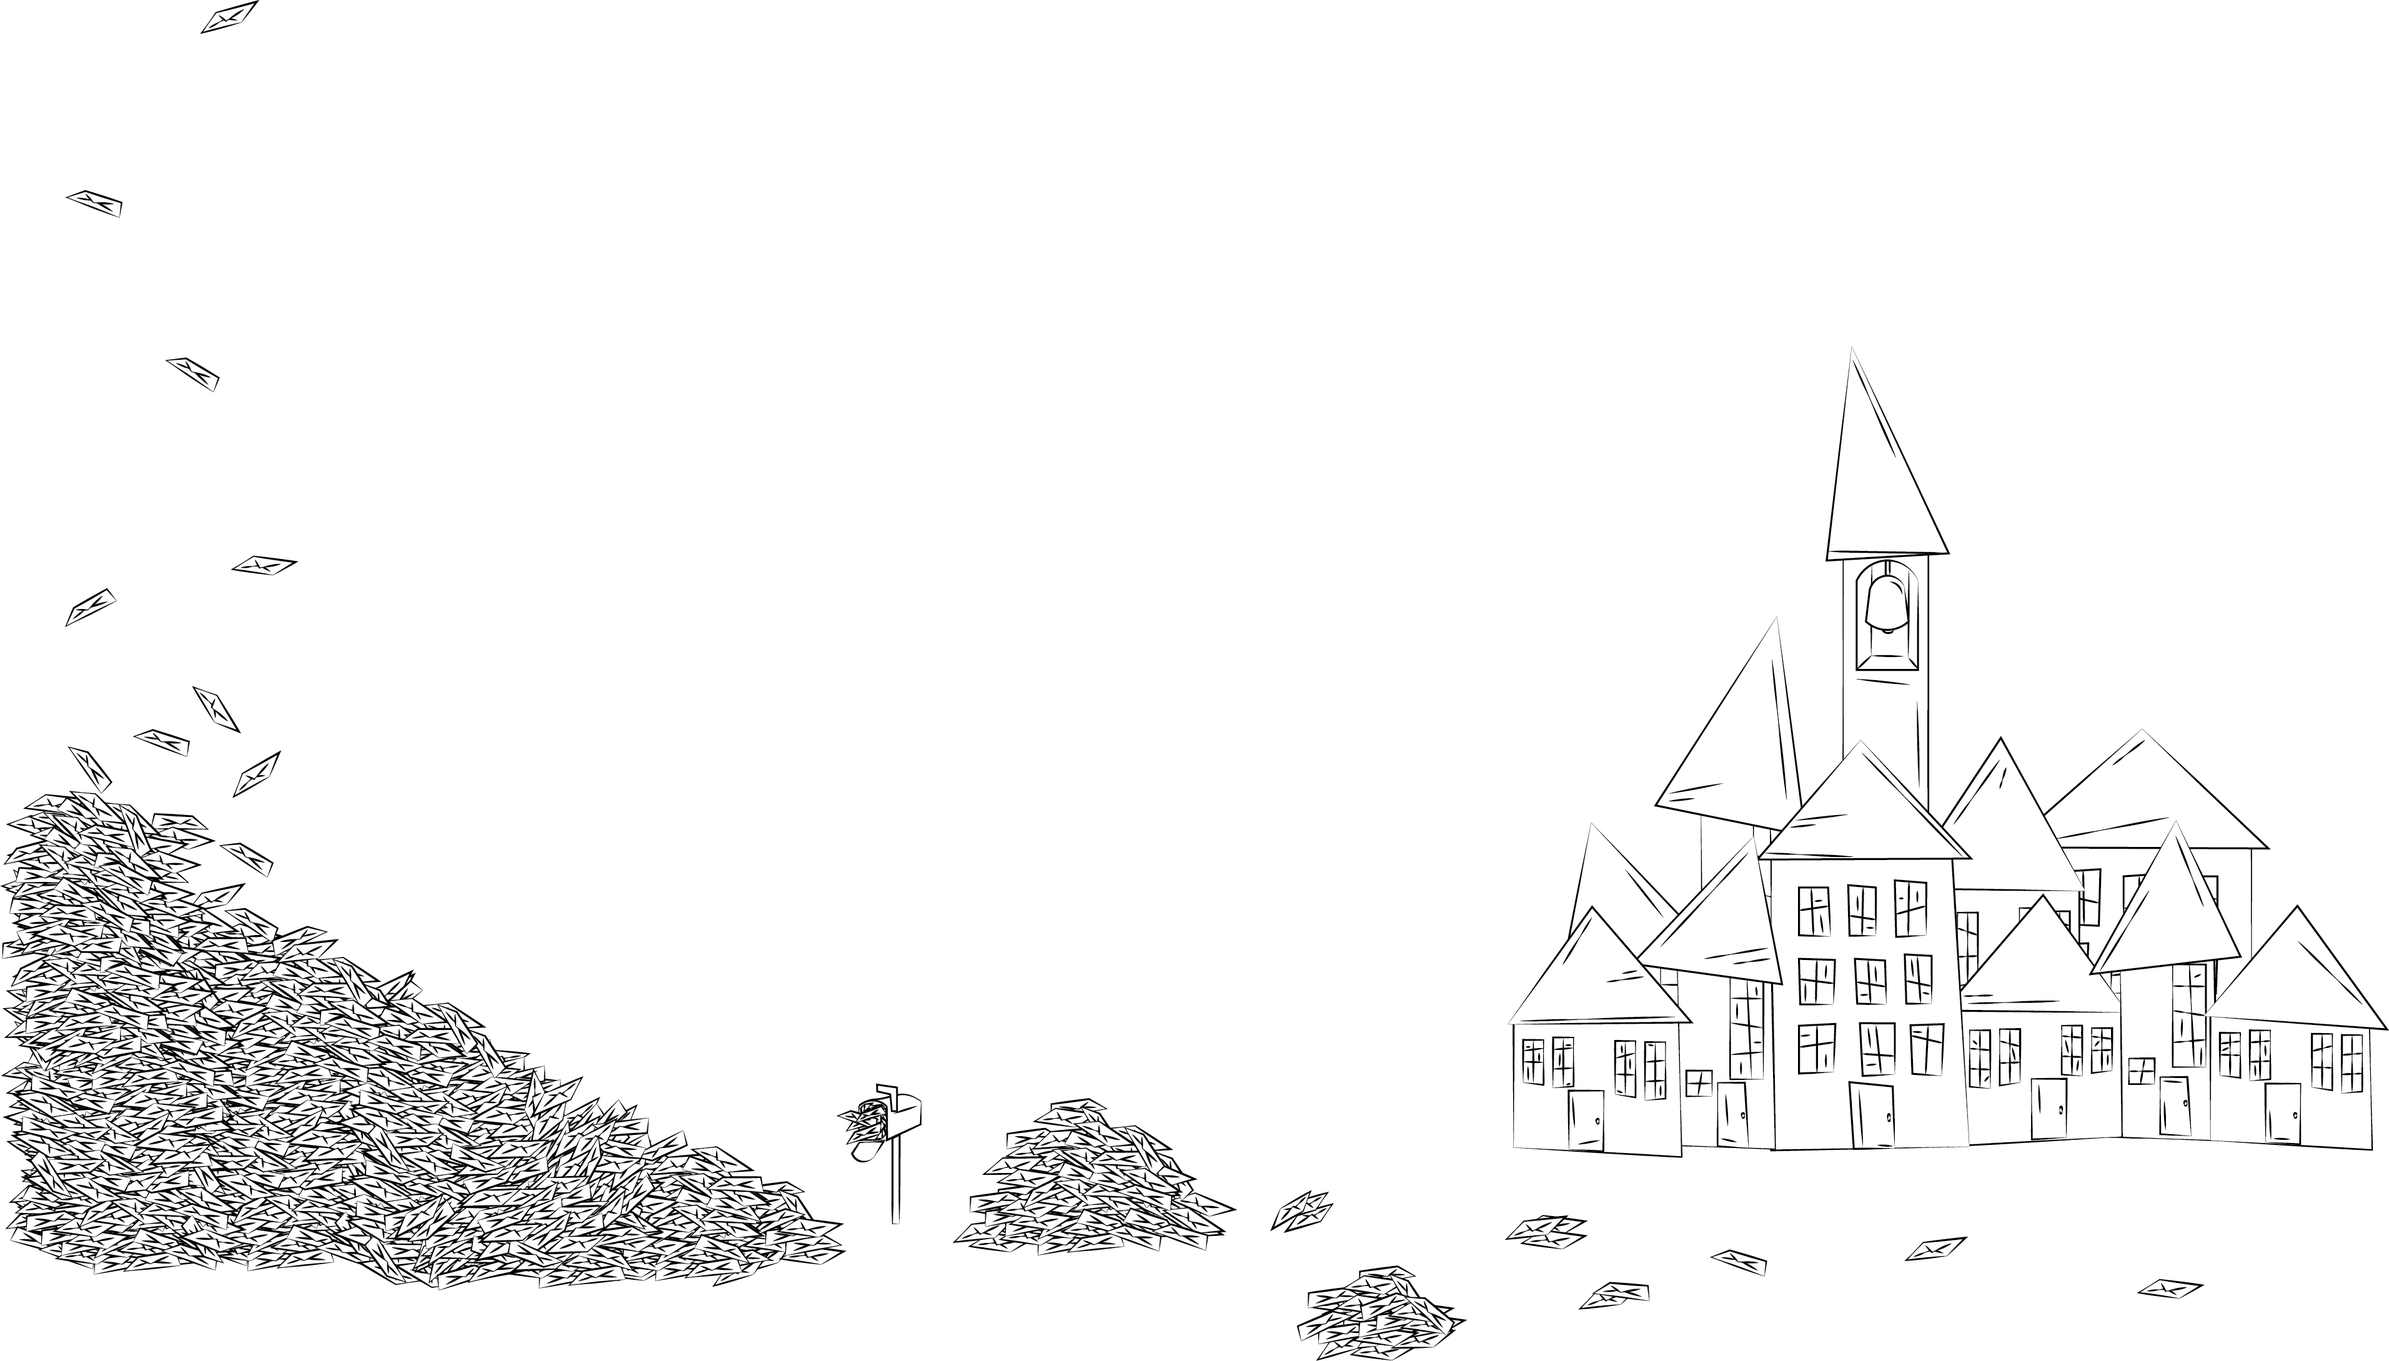
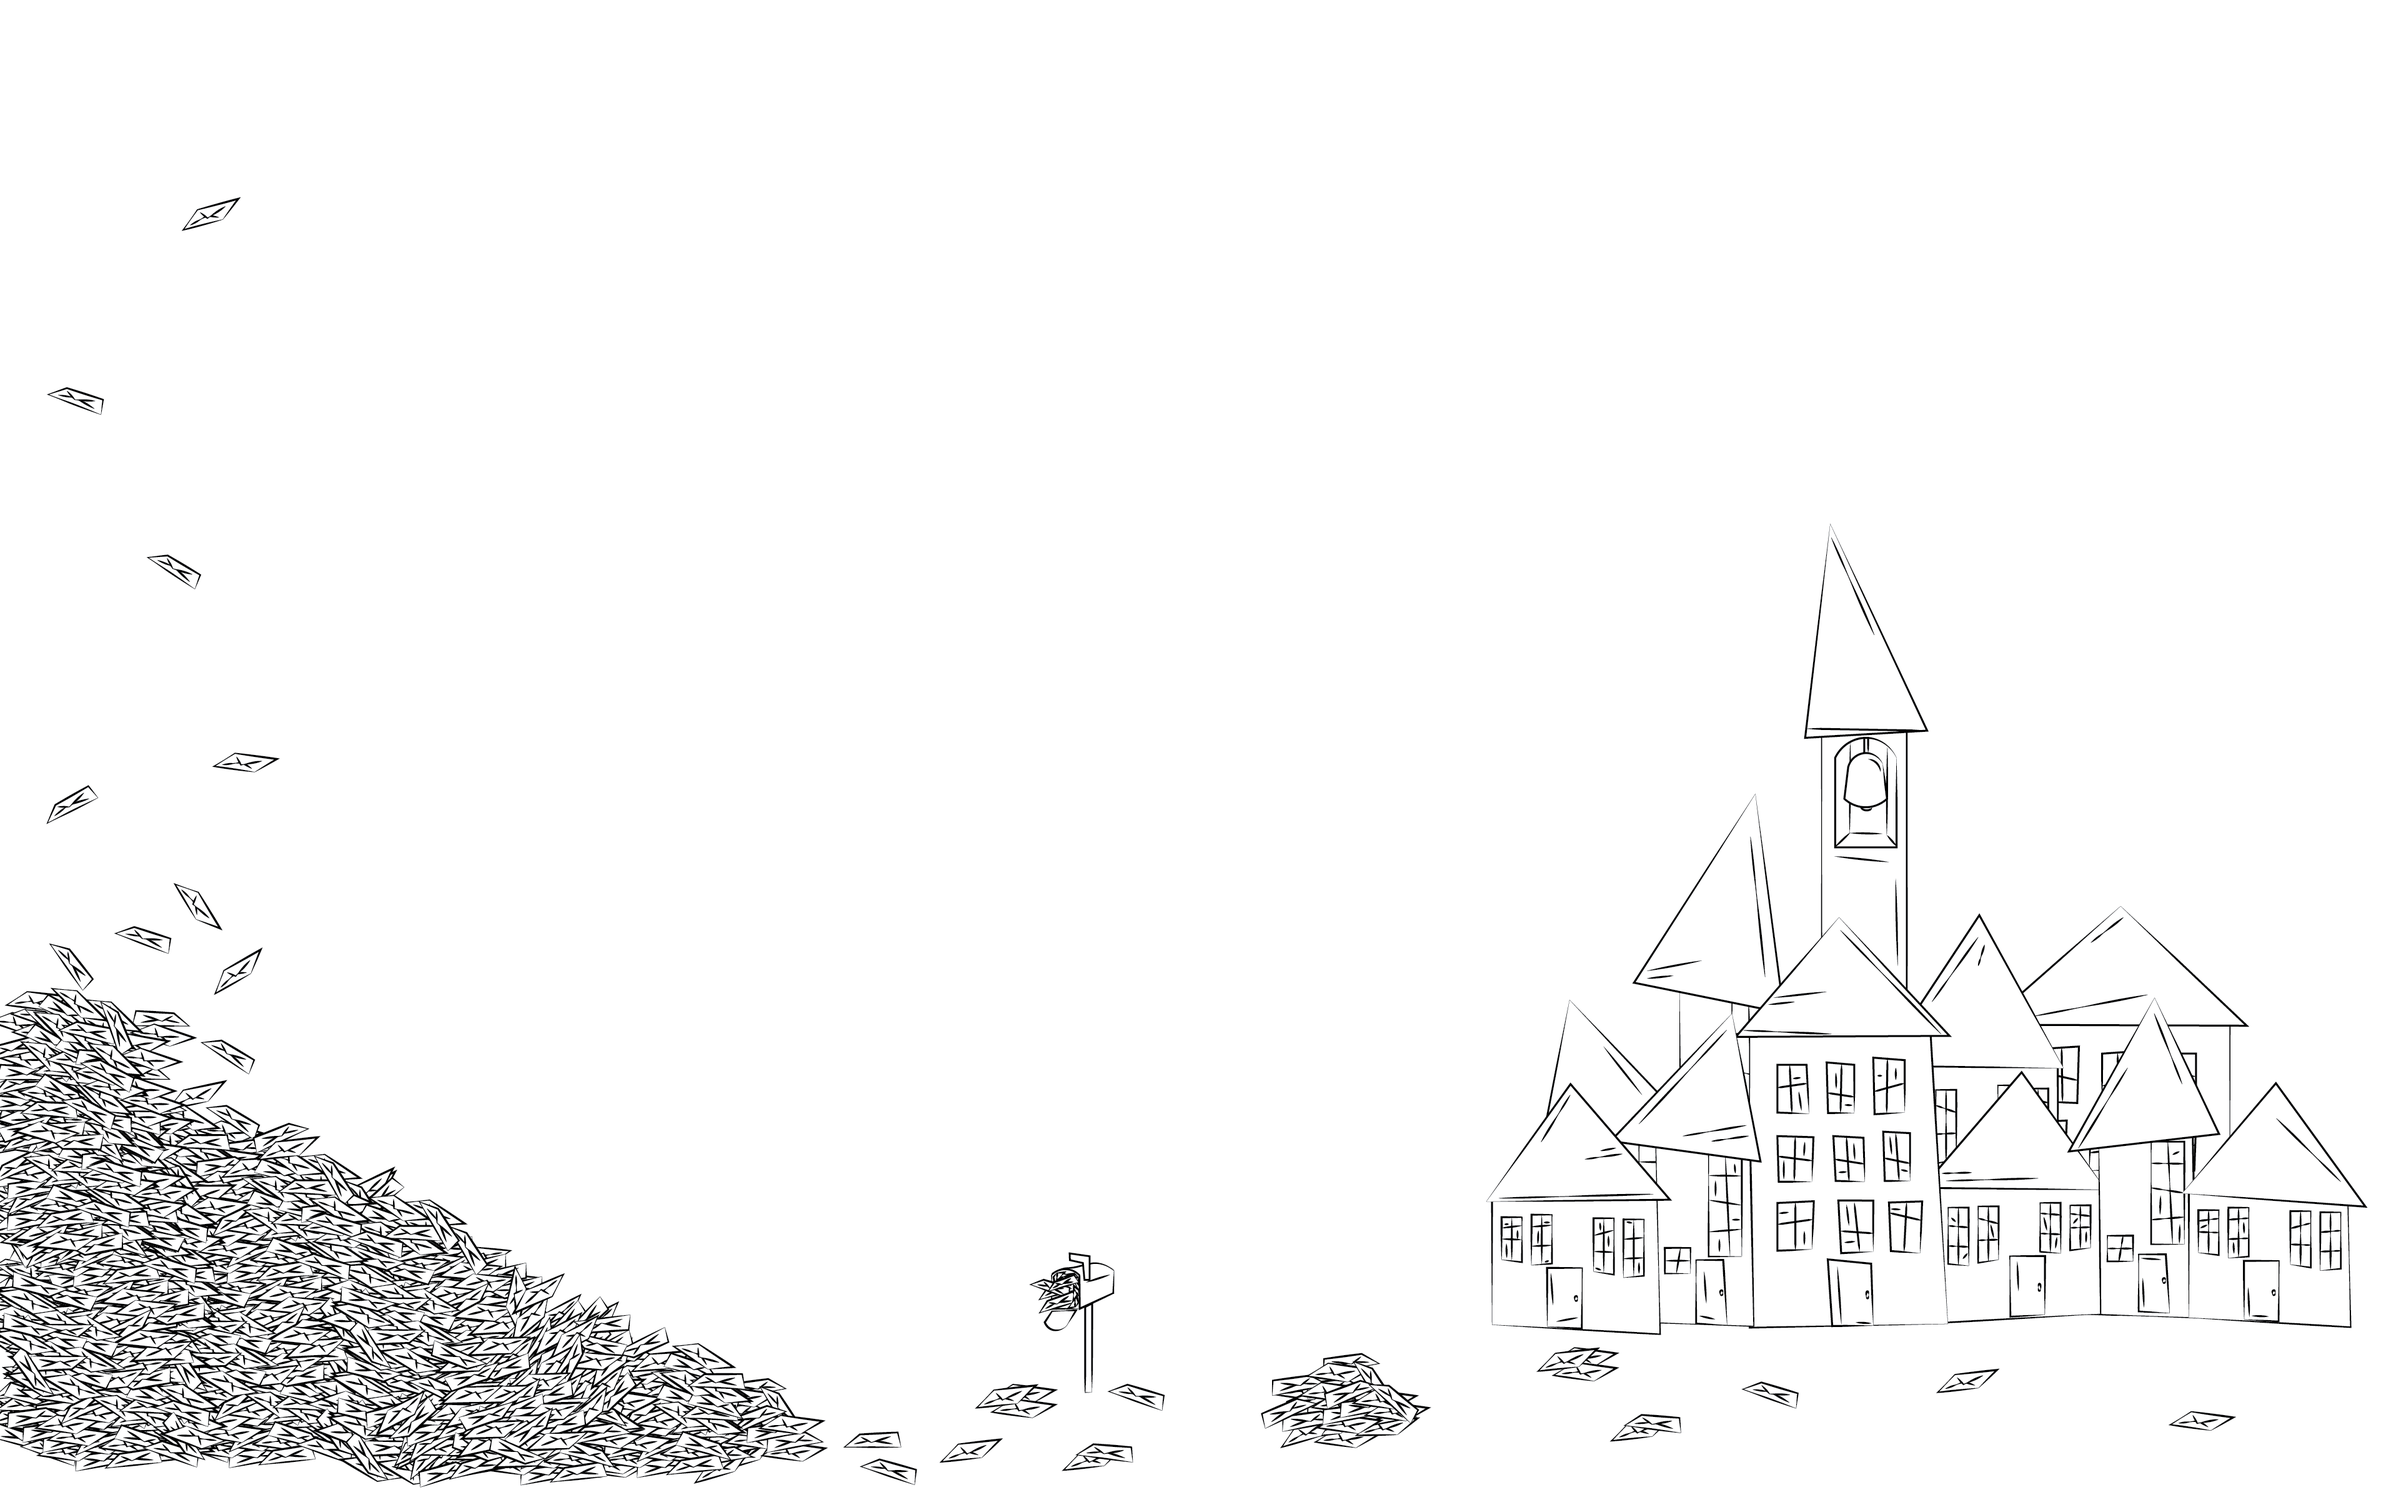
Updated backgrounds and formatted numbers

diff --git a/index.html b/index.html
@@ -19,41 +19,41 @@
         <img v-show="phase > 2" src="assets/bgs/3.png" class="background bg3">
       </transition>
       <div class="row main-stat">
-        ${{ this.round(money) }}
+        ${{ format(this.round(money)) }}
       </div>
       <div class="row stats">
         <div class="column stat">
-          <div class="stat-value">{{ letters }}</div>
+          <div class="stat-value">{{ format(letters) }}</div>
           <div class="stat-name">letters</div>
         </div>
         <div class="column stat">
-          <div class="stat-value">{{ lettersDelivered }}</div>
+          <div class="stat-value">{{ format(lettersDelivered) }}</div>
           <div class="stat-name">letters delivered</div>
         </div>
         <div class="column stat">
-          <div class="stat-value">{{ lettersPerSecond }}</div>
+          <div class="stat-value">{{ format(lettersPerSecond) }}</div>
           <div class="stat-name">letters per second</div>
         </div>
       </div>
       <div class="row stats">
         <div class="column stat" v-show="phase >= 1">
-          <div class="stat-value">{{ mailmen }}</div>
+          <div class="stat-value">{{ format(mailmen) }}</div>
           <div class="stat-name">mailmen</div>
         </div>
         <div class="column stat" v-show="phase >= 2">
-          <div class="stat-value">{{ recruiters }}</div>
+          <div class="stat-value">{{ format(recruiters) }}</div>
           <div class="stat-name">recruiters</div>
         </div>
         <div class="column stat" v-show="phase >= 2">
-          <div class="stat-value">{{ factories }}</div>
+          <div class="stat-value">{{ format(factories) }}</div>
           <div class="stat-name">factories</div>
         </div> 
         <div class="column stat" v-show="phase >= 1">
-          <div class="stat-value">{{ mailboxes }}</div>
+          <div class="stat-value">{{ format(mailboxes) }}</div>
           <div class="stat-name">mailboxes</div>
         </div>
         <div class="column stat" v-show="phase >= 3">
-          <div class="stat-value">{{ segways }}</div>
+          <div class="stat-value">{{ format(segways) }}</div>
           <div class="stat-name">segways</div>
         </div>
       </div>
@@ -70,7 +70,7 @@
             <div class="button" @click="buyMailman()">
               <div class="button-name">
                 <div>Mailman</div>
-                <div>(${{ mailmanPrice }})</div>
+                <div>(${{ format(mailmanPrice) }})</div>
               </div>
               <div class="button-description">
                 Automate letter delivery
@@ -84,7 +84,7 @@
             <div class="button" @click="buyMailbox()">
               <div class="button-name">
                 <div>Mailbox</div>
-                <div>(${{ mailboxPrice }})</div>
+                <div>(${{ format(mailboxPrice) }})</div>
               </div>
               <div class="button-description">
                 Increase letters per second
@@ -99,7 +99,7 @@
           <div class="button column" @click="buyRecruiter()">
             <div class="button-name">
               <div>Recruiter</div>
-              <div>(${{ recruiterPrice }})</div>
+              <div>(${{ format(recruiterPrice) }})</div>
             </div>
             <div class="button-description">
               Automatically hire mailmen
@@ -111,7 +111,7 @@
           <div class="button column" @click="buyFactory()">
             <div class="button-name">
               <div>Factory</div>
-              <div>(${{ factoryPrice }})</div>
+              <div>(${{ format(factoryPrice) }})</div>
             </div>
             <div class="button-description">
               Automatically build mailboxes
@@ -125,7 +125,7 @@
           <div class="button column" @click="buySegway()">
             <div class="button-name">
               <div>Segway</div>
-              <div>(${{ segwayPrice }})</div>
+              <div>(${{ format(segwayPrice) }})</div>
             </div>
             <div class="button-description">
               Increases mailman delivery speed by 5% per segway
@@ -139,7 +139,7 @@
           <div class="button column" @click="buyScientificManagement()">
             <div class="button-name">
               <div>Scientific Management</div>
-              <div v-if="!scientificManagement">(${{ scientificManagementBasePrice }})</div>
+              <div v-if="!scientificManagement">(${{ format(scientificManagementBasePrice) }})</div>
               <div v-else>(owned)</div>
             </div>
             <div class="button-description">
@@ -162,7 +162,7 @@
             </div>
           </div>
           <div v-else class="column">
-            Next milestone at {{ this.nextPhaseAt }} letters delivered
+            Next milestone at {{ format(this.nextPhaseAt) }} letters delivered
           </div>
         </div>
       </div>

diff --git a/js/game.js b/js/game.js
@@ -70,13 +70,13 @@ const vw = new Vue({
     nextPhaseAt: function() {
       switch(this.phase) {
         case 0:
-          return "40";
+          return 40;
         case 1:
-          return "100,000";
+          return 100000;
         case 2:
-          return "100,000,000";
+          return 100000000;
         default:
-          return "Infinity";
+          return Infinity;
       }
     },
 
@@ -96,6 +96,32 @@ const vw = new Vue({
   },
 
   methods: {
+    getFormatted: function(number, divisor) {
+      const result = (number / divisor).toString().match(/[0-9]+\.?[0-9]?[0-9]?/g);
+      return result[0];
+    },
+
+    format: function(number) {
+      if(number < 10**3)
+        return number;
+
+      if (number < 10**6) {
+        return this.getFormatted(number, 10**3) + "k";
+      } else if (number < 10**9) {
+        return this.getFormatted(number, 10**6) + "M";
+      } else if (number < 10**12) {
+        return this.getFormatted(number, 10**9) + "G";
+      } else if (number < 10**15) {
+        return this.getFormatted(number, 10**12) + "T";
+      } else if (number < 10**18) {
+        return this.getFormatted(number, 10**15) + "P";
+      } else if (number == Infinity) {
+        return "Infinity";
+      }
+
+      return this.getFormatted(number, 10**15) + "E";
+    },
+
     round: function(number) {
       number *= 100;
       return Math.floor(number) / 100;

diff --git a/css/style.css b/css/style.css
@@ -11,14 +11,14 @@ html, body {
 
 .background {
   position: fixed;
-  bottom:5%;
+  bottom:0;
   right:0;
   opacity:0.6;
   z-index:-1;
 }
 
 .bg1 {
-  width: 70%;
+  width: 100%;
 }
 
 .bg2 {
